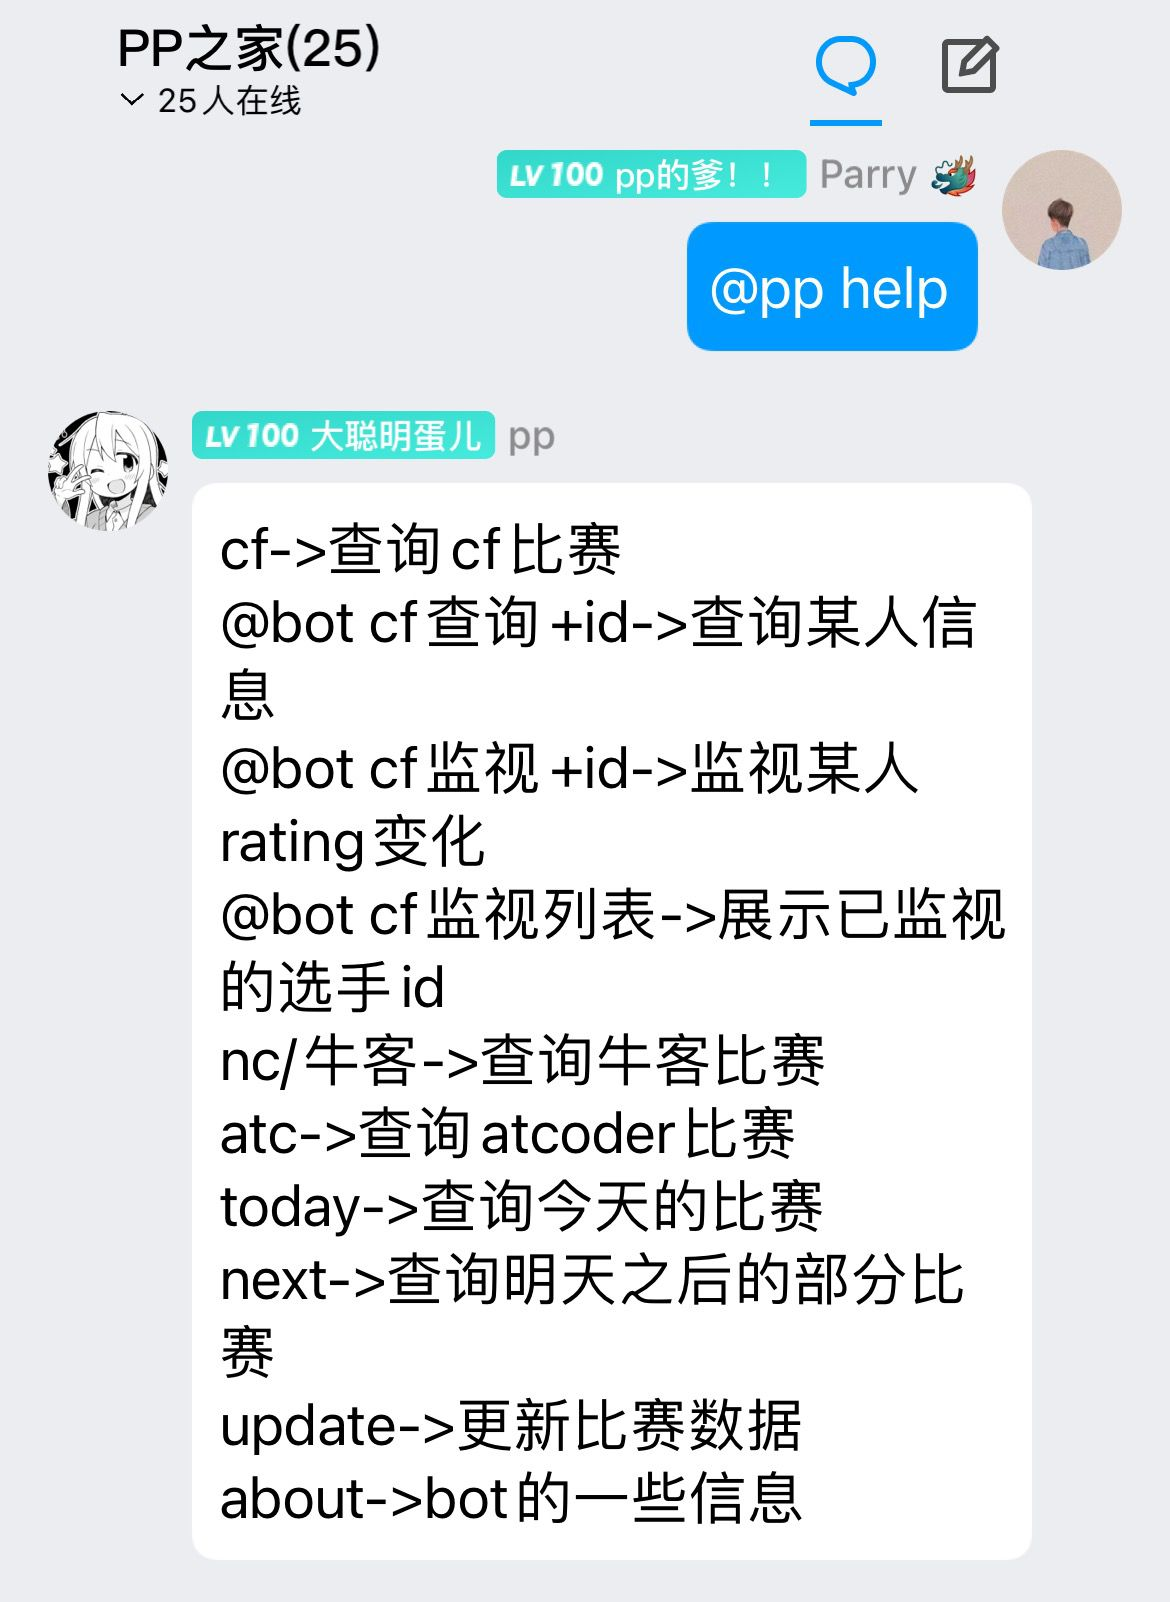
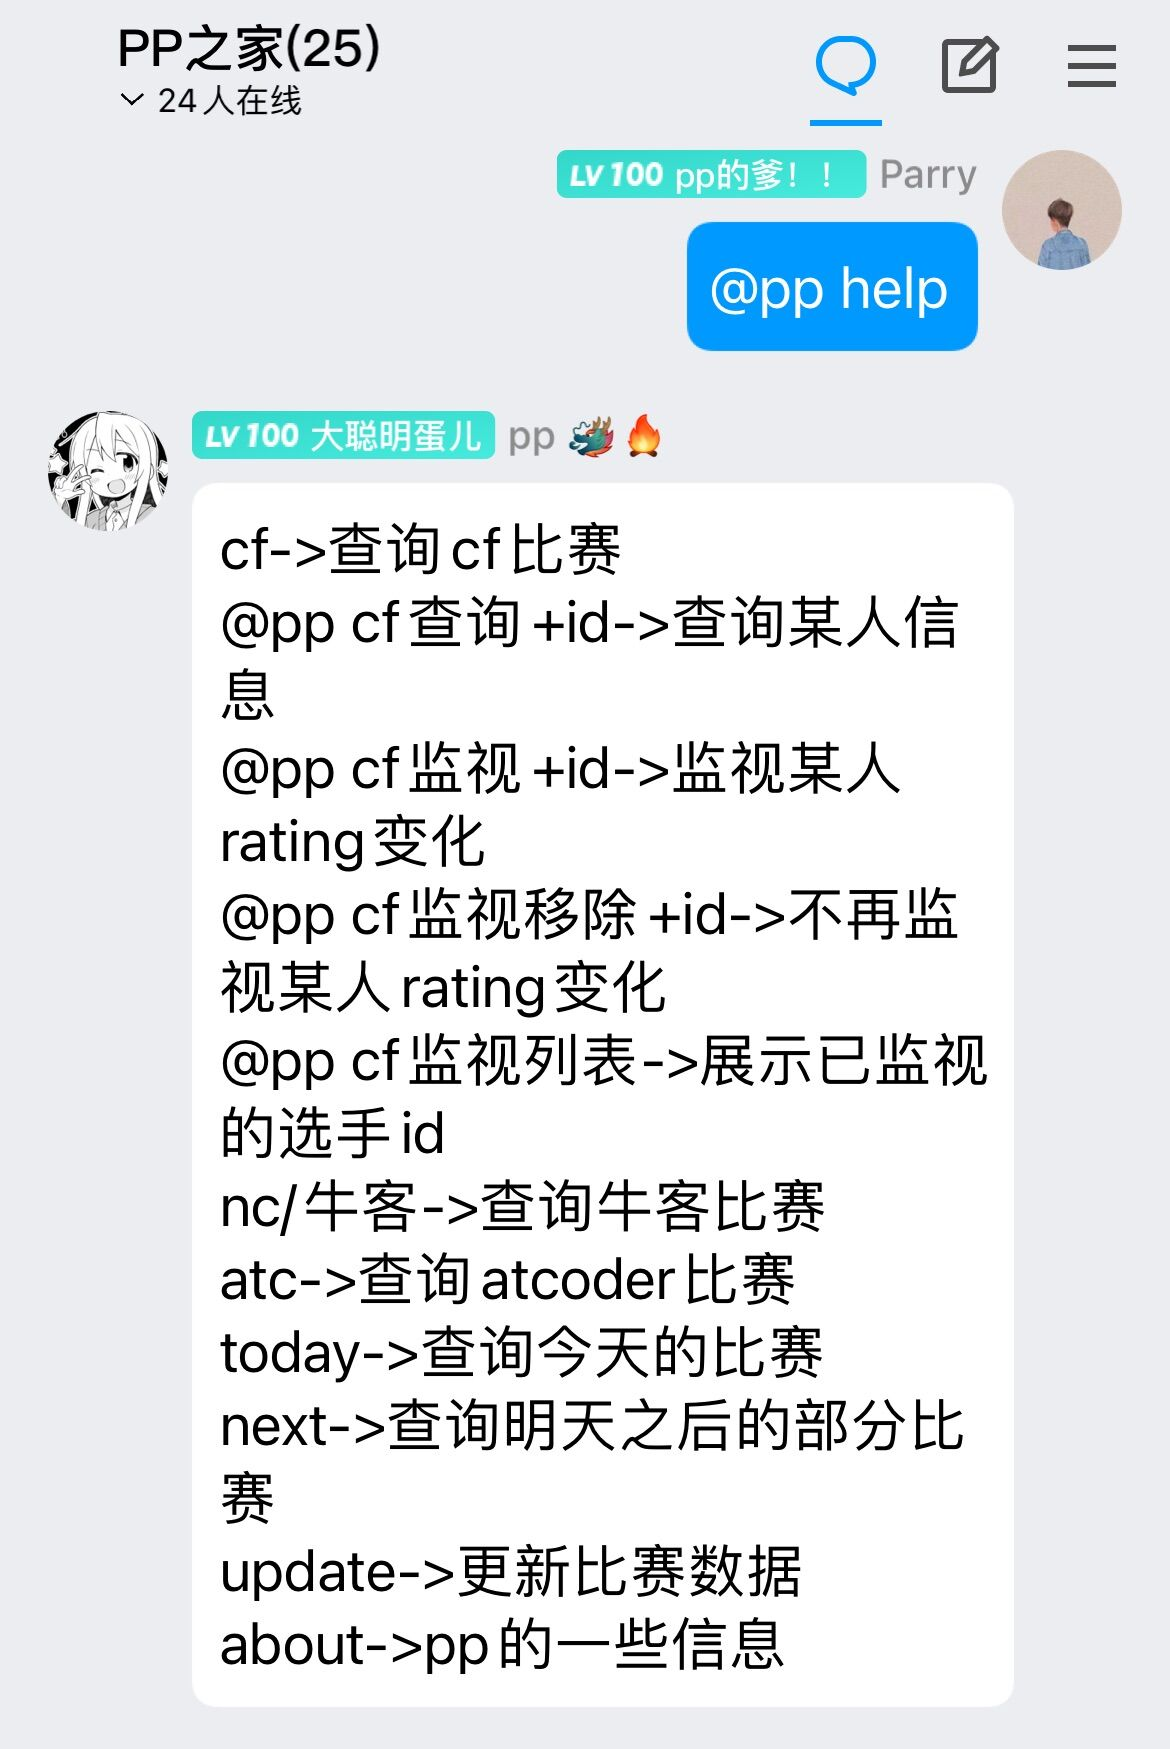
添加‘cf用户上线提醒功能’

diff --git a/nonebot_plugin_cp_broadcast/sqlite3.py b/nonebot_plugin_cp_broadcast/sqlite3.py
@@ -29,7 +29,7 @@ cursor.execute("""
 class CF_UserType:
     def __init__(self, id, now_rating, update_time, QQ, status, last_rating, avatar_url):
         self.id = id
-        self.now_rating = now_rating if now_rating is not None else 0
+        self.now_rating = now_rating if now_rating is not None else 0                  # cf上次上线时间
         self.update_time = update_time if update_time is not None else 0
         self.QQ = QQ if QQ is not None else 0
         self.status = status if status is not None else 1
@@ -54,7 +54,7 @@ async def addUser(id: str, QQ: int):
         results = data['result']
 
         for result in results:
-            update_time = int(datetime.datetime.now().timestamp())
+            update_time = int(result["lastOnlineTimeSeconds"])
             user = CF_UserType(result["handle"], result["rating"], update_time, QQ, 1, result["rating"], result["avatar"])
             cursor.execute('''
             INSERT OR REPLACE INTO CF_User (id, now_rating, update_time,QQ,status,last_rating,avatar_url)
@@ -110,7 +110,7 @@ async def removeUser(id: str):
     return True
         
 async def updateUser():
-    Users = []
+    Users = {'ratingChange' : [], 'cfOnline' : []}
     global cf_user_info_baseurl, cursor, conn
 
     cursor.execute('SELECT * FROM CF_User')
@@ -134,9 +134,13 @@ async def updateUser():
             
             # 遍历每个结果并储存键值
             for result in results:
-                update_time = int(datetime.datetime.now().timestamp())
+                update_time = int(result["lastOnlineTimeSeconds"])
+
+                if update_time != Oupdate_time:
+                    Users['cfOnline'].append(str(Oid))
+
                 user = CF_UserType(Oid, result["rating"], update_time, OQQ, Ostatus, Onow_rating, result["avatar"])
-                Users.append(user)
+                Users['ratingChange'].append(user)
 
                 cursor.execute('''
                 INSERT OR REPLACE INTO CF_User (id, now_rating, update_time,QQ,status,last_rating,avatar_url)
@@ -156,12 +160,12 @@ async def updateUser():
 
     return Users
 
-async def returRatingChangeInfo():
-    outputlist = []
+async def returChangeInfo():
+    outputlist = {'ratingChange' : [], 'cfOnline' : []}
     Users = await updateUser()
 
     global cursor, conn
-    for user in Users:
+    for user in Users['ratingChange']:
         output=f"当前时间：{time.strftime('%Y-%m-%d %H:%M:%S', time.localtime())}\n"
         cursor.execute('SELECT now_rating,last_rating,QQ FROM CF_User WHERE id = ?', (user.id,))
         row = cursor.fetchone()
@@ -169,7 +173,11 @@ async def returRatingChangeInfo():
         if last_rating != now_rating:
             change = now_rating - last_rating
             output += f"cf用户 {user.id} 分数发生变化，从 {last_rating} → {now_rating}，变动了{change}分！\n"
-            outputlist.append({'QQ':QQ,'output':output})
+            outputlist['ratingChange'].append(output)
+
+    for id in Users['cfOnline']:
+        ouput = f'卷王 {id} 又开始上cf做题啦！'
+        outputlist['cfOnline'].append(ouput)
 
     return outputlist
 

diff --git a/nonebot_plugin_cp_broadcast/__init__.py b/nonebot_plugin_cp_broadcast/__init__.py
@@ -16,6 +16,7 @@ cp_broadcast_botname = cp_broadcast_config.cp_broadcast_botname
 cp_broadcast_time = cp_broadcast_config.cp_broadcast_time
 cp_broadcast_updatetime = cp_broadcast_config.cp_broadcast_updatetime
 cp_broadcast_cf_list = cp_broadcast_config.cp_broadcast_cf_list
+cp_broadcast_cf_interval = cp_broadcast_config.cp_broadcast_cf_interval
 
 from nonebot.plugin import PluginMetadata
 
@@ -26,7 +27,7 @@ __plugin_meta__ = PluginMetadata(
         "cf->查询cf比赛\n"\
         "@{botname} cf查询+id->查询某人信息\n"\
         "@{botname} cf监视+id->监视某人rating变化\n"\
-        "@{botname} cf监视移除+id->不再监视某人rating变化"\
+        "@{botname} cf监视移除+id->不再监视某人rating变化\n"\
         "@{botname} cf监视列表->展示已监视的选手id\n"\
         "nc/牛客->查询牛客比赛\n"\
         "atc->查询atcoder比赛\n"\
@@ -239,21 +240,26 @@ async def reply():
     await update_matcher.finish('数据已更新完成')
 
 
-#cf分数变化提醒
-async def ratingReminder():
+#cf分数变化提醒、cf上线提醒
+async def cfBroadcast():
     await asyncio.sleep(1)
     logger.info('cf分数变化检测开始')
-    messList = await returRatingChangeInfo()
+    messList = await returChangeInfo()
     if len(messList) == 0:
         return
     for id in cp_broadcast_cf_list:
         await asyncio.sleep(2)
-        for mess in messList:
-            await get_bot().send_group_msg(group_id=id, message=mess['output'])
+        for mess in messList['ratingChange']:
+            await get_bot().send_group_msg(group_id=id, message=mess)
             await asyncio.sleep(2)
+
+        for mess in messList['cfOnline']:
+            await get_bot().send_group_msg(group_id=id, message=mess)
+            await asyncio.sleep(2)
+        
 
 
 if scheduler:
     scheduler.add_job(
-        ratingReminder, "interval", minutes=20, id="ratingReminder"
+        cfBroadcast, "interval", minutes=cp_broadcast_cf_interval, id="cfBroadcast"
     )

diff --git a/nonebot_plugin_cp_broadcast/config.py b/nonebot_plugin_cp_broadcast/config.py
@@ -10,6 +10,7 @@ class Config(BaseModel, extra=Extra.ignore):
     cp_broadcast_time: Dict[str, str] = {"hour" : "7", "minute" : "20"}
     cp_broadcast_updatetime: Dict[str, str] = {"hour" : "0", "minute" : "0"}
     cp_broadcast_cf_list: List[str] = []
+    cp_broadcast_cf_interval: int = 10
 
 cp_broadcast_path = Path() / "data" / "cp_broadcast"
 cf_user_info_baseurl = 'https://codeforces.com/api/user.info?handles='
